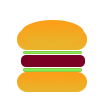
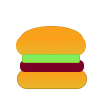
ch menu+exception

Changed region(s): [[0.15, 0.18, 0.87, 0.93]]

diff --git a/src/model/food/Plate.java b/src/model/food/Plate.java
@@ -78,31 +78,34 @@ public class Plate implements IRenderableFood {
 		gc.setFill(Color.WHITE);
 		gc.drawImage(image, x-35, y-70, 70, 70);
 		double yOfIngredient = y-27;
-		
-		if (foodOnPlate.getIngredient(Food.VEGETABLE) == true) {
-			gc.setFill(Color.GREENYELLOW);
-			gc.fillRect(x-20, yOfIngredient, 30, 20);
-			gc.strokeRect(x-20, yOfIngredient, 6, 20);
-			gc.strokeRect(x-14, yOfIngredient, 6, 20);
-			gc.strokeRect(x-8, yOfIngredient, 6, 20);
-			gc.strokeRect(x-2, yOfIngredient, 6, 20);
-			gc.strokeRect(x+4, yOfIngredient, 6, 20);
-			yOfIngredient -= 3;
-		}
+	
 		if (foodOnPlate.getIngredient(Food.MEAT) == true) {
-			gc.setFill(Color.CHOCOLATE);
-			gc.fillRect(x-20, yOfIngredient, 30, 20);
-			gc.strokeRect(x-20, yOfIngredient, 6, 20);
-			gc.strokeRect(x-14, yOfIngredient, 6, 20);
-			gc.strokeRect(x-8, yOfIngredient, 6, 20);
-			gc.strokeRect(x-2, yOfIngredient, 6, 20);
-			gc.strokeRect(x+4, yOfIngredient, 6, 20);
-			yOfIngredient -= 3;
+			if(foodOnPlate.getIngredient(Food.BREAD) == true) {
+				if(foodOnPlate.getIngredient(Food.VEGETABLE) == true) {
+					gc.drawImage(ResourseLoader.brVM,x-25, yOfIngredient-35, 50, 45);
+				}
+				else gc.drawImage(ResourseLoader.brMeat,x-25, yOfIngredient-35, 50, 45);
+			}
+			else if(foodOnPlate.getIngredient(Food.VEGETABLE) == true) {
+				gc.drawImage(ResourseLoader.meatV,x-25, yOfIngredient-35, 55, 50);
+			}
+			else {
+				gc.drawImage(ResourseLoader.meat[9],x-25, yOfIngredient-30, 45, 40);
+				
+			}
 		}
-		if (foodOnPlate.getIngredient(Food.BREAD) == true) {
-			gc.setFill(Color.BURLYWOOD); 
-			gc.fillRect(x-20, yOfIngredient, 30, 20);
-			yOfIngredient -= 3;
+		else if (foodOnPlate.getIngredient(Food.BREAD) == true) {
+			if(foodOnPlate.getIngredient(Food.VEGETABLE) == true) {
+				gc.drawImage(ResourseLoader.brVeg,x-25, yOfIngredient-35, 50, 45);
+			}
+			else{
+				gc.drawImage(ResourseLoader.bread,x-25, yOfIngredient-30, 50, 45);
+			}
+			
+		}
+		else if (foodOnPlate.getIngredient(Food.VEGETABLE) == true) {
+			gc.drawImage(ResourseLoader.veg[7],x-25, yOfIngredient-30, 50, 45);
+			
 		}
 	}
 

diff --git a/src/model/counter/Chest.java b/src/model/counter/Chest.java
@@ -46,11 +46,6 @@ public class Chest extends Counter {
 		// TODO Auto-generated method stub
 		if(ingredient == Food.MEAT) {
 			gc.drawImage(ResourseLoader.counter[2], x - width / 2, y - height, width, height+25);
-/*||||||| merged common ancestors
-			gc.drawImage(ResoureLoader.counter[2], x - width / 2, y - height, width, height);
-=======
-			gc.drawImage(ResourseLoader.counter[2], x - width / 2, y - height, width, height);
->>>>>>> e5852d28ed33b2aee63c22926729ca6e728590e7*/
 		}
 		else if(ingredient == Food.VEGETABLE) {
 			gc.drawImage(ResourseLoader.counter[3], x - width / 2, y - height, width, height+25);

diff --git a/src/model/Menu.java b/src/model/Menu.java
@@ -71,8 +71,6 @@ public class Menu {
 		boolean remove = false;
 		for(Pair<Food,Time> menu : allMenu) {
 			if(menu.second.isTimeup())	remove = true;
-				
-				//System.out.println("ch");
 				draw(Menu.position.get(ch),menu,gc);
 				drawTime(Menu.position.get(ch),menu,gc);
 				ch++;
@@ -88,11 +86,12 @@ public class Menu {
 					
 			}
 		}
-		if(allMenu.size() <= 1) {
+		if(allMenu.size() <1||allMenu.size()>5) {
 			new menuException();
 		}
-		
-		
+		if(allMenu.size() <=2) {
+			generateMenu();
+		}
 	}
 
 	private void draw(Pair<Double, Double> pos, Pair<Food, Time> menu,GraphicsContext gc) {

diff --git a/src/model/player/Player.java b/src/model/player/Player.java
@@ -219,11 +219,11 @@ public class Player extends Entity {
 	public void draw(GraphicsContext gc) {
 		
 		gc.drawImage(ResourseLoader.player1.get(direction), x - width/2-25, y - height-30, 90, 90);
-		
+		/*
 		gc.setFill(Color.BLACK);
 		gc.strokeRect(x - width / 2, y - height - scope, width, scope * 2 + height);
 		gc.strokeRect(x - width / 2 - scope, y - height, scope * 2 + width, height);
-		
+		*/
 		gc.drawImage(ResourseLoader.effChop, x - width/2-25, y - height-30 , 100,100);
 		if (foodOnPlayer != null) {
 			foodOnPlayer.draw(gc, x-1, y-30);

diff --git a/src/game/ui/GameScreen.java b/src/game/ui/GameScreen.java
@@ -13,6 +13,7 @@ import model.IRenderable;
 
 
 import model.Menu;
+import model.counter.Stove;
 import model.exception.menuException;
 
 public class GameScreen extends Canvas {
@@ -68,6 +69,7 @@ public class GameScreen extends Canvas {
 				e.printStackTrace();
 			}
 		}
+		Stove.setMusic(false);
 	}
 
 	public void addListerner() {
@@ -97,6 +99,7 @@ public class GameScreen extends Canvas {
 		
 		try {
 			menu.updateMenu(gc);
+			
 		}catch (menuException e) {
 			// TODO: handle exception
 			e.printStackTrace();

diff --git a/src/Utility/ResourseLoader.java b/src/Utility/ResourseLoader.java
@@ -40,9 +40,10 @@ public class ResourseLoader {
 	
 
 	//mix
-	public Image brVeg;
-	public Image brMeat=new Image("file:res/img/brm.png");
-	public Image brVM =new Image("file:res/img/brmv.png"); 
+	public static Image brVeg = new Image("file:res/img/brveg.png");
+	public static Image brMeat=new Image("file:res/img/brm.png");
+	public static Image brVM =new Image("file:res/img/brmv.png"); 
+	public static Image meatV = new Image("file:res/img/mv.png"); 
 	
 	
 	//public static AudioClip game_music = new AudioClip();

diff --git a/src/model/exception/menuException.java b/src/model/exception/menuException.java
@@ -1,19 +1,18 @@
 package model.exception;
 
-import model.Menu;
+
 
 public class menuException extends Exception {
 	private static final long serialVersionUID = 1L;
-	Menu menu;
+	
 	public menuException() {
 		// TODO Auto-generated constructor stub
 		super();
-		menu.generateMenu();
 	}
 	
 	@Override
 	public void printStackTrace() {
-		System.err.println("menu have only one");
+		System.out.println("menu have only one");
 		super.printStackTrace();
 	}
 

diff --git a/src/model/food/Food.java b/src/model/food/Food.java
@@ -37,10 +37,7 @@ public class Food {
 		return ingredients[i];
 	}
 	
-	/*public int printFood() {
-		//return Arrays.toString(ingredients);
-		return ingredients.length;
-	}*/
+	
 	
 	public void setIngredient(int i, boolean have) {
 		ingredients[i] = have;

diff --git a/src/model/GameModel.java b/src/model/GameModel.java
@@ -13,7 +13,7 @@ public class GameModel {
 
 	private Menu menu = new Menu();
 	
-	private static final long START_NANO_TIME = 10000000000L;
+	private static final long START_NANO_TIME = 180000000000L;
 	
 	static int score;
 	long remainingNanoTime;

diff --git a/src/model/counter/Stove.java b/src/model/counter/Stove.java
@@ -43,7 +43,7 @@ public class Stove extends Counter {
 			}
 		}
 	};
-	public void setMusic(boolean play) {
+	public static void setMusic(boolean play) {
 		if(play) {
 			ResourseLoader.rip_sound.play();
 			ResourseLoader.rip_sound.setVolume(5);
